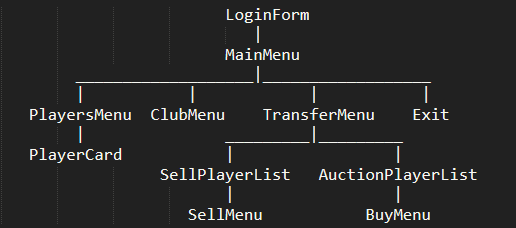
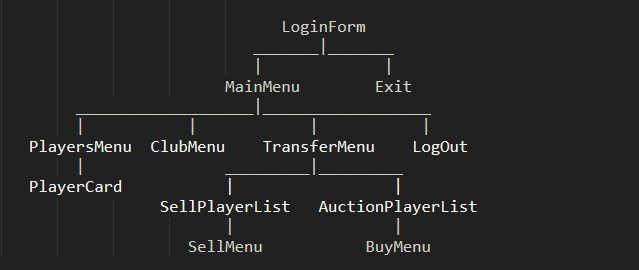
main

diff --git a/README.md b/README.md
@@ -60,3 +60,20 @@ The new auction player list to every client as well.</h5>
 
 # LOG OUT
 <h5>If the user wishes get out of the the database system he needs to click log out button.</h5>
+
+<h5>
+      
+                              LoginForm
+                           _______|_______  
+                           |             |
+                        MainMenu        Exit
+        ___________________|__________________
+        |           |            |           |
+   PlayersMenu  ClubMenu    TransferMenu    LogOut
+        |               _________|_________
+   PlayerCard           |                 |
+                 SellPlayerList   AuctionPlayerList
+                        |                 |
+                    SellMenu           BuyMenu
+
+</h5>
